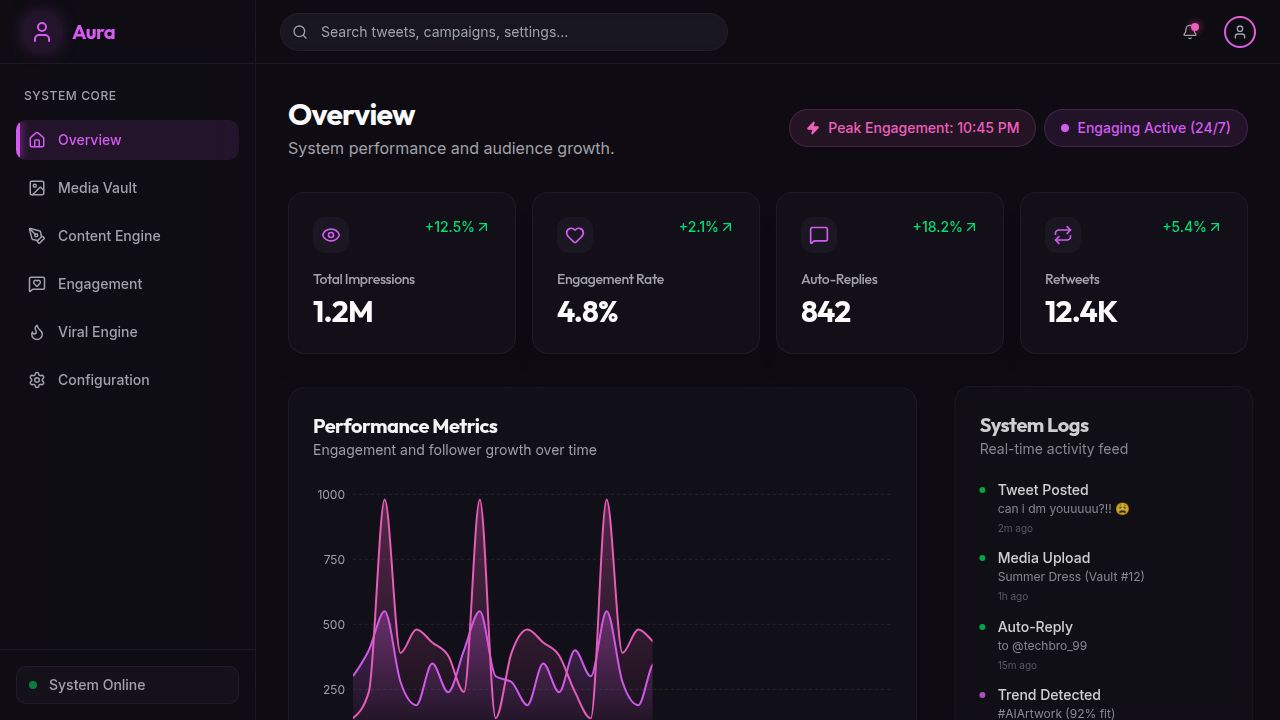
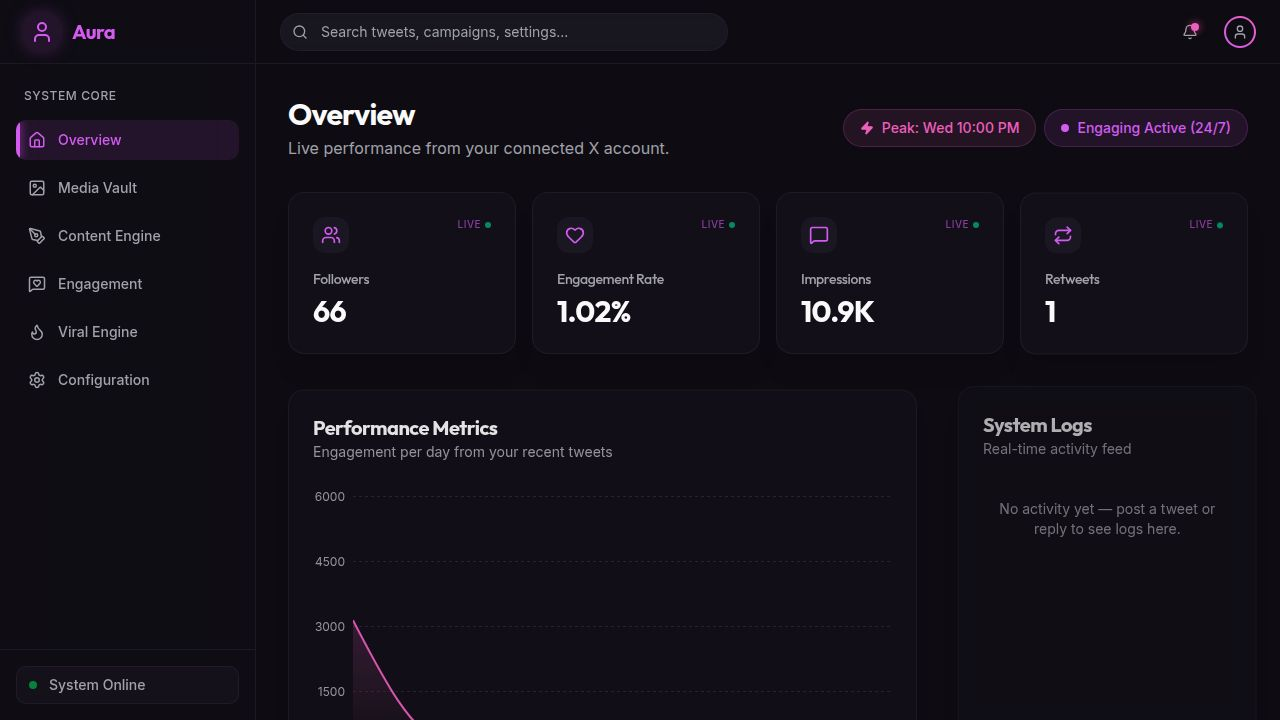
Improve follower interaction tracking by using free Twitter API tiers
Refactors the engagement poller to use available free-tier Twitter API endpoints for tracking follower counts, likes, and retweets. Extends the interaction data retention period from 48 hours to 7 days and updates the UI text accordingly. Includes improved error logging and seeds initial data for immediate display.

Replit-Commit-Author: Agent
Replit-Commit-Session-Id: 51af5744-ac7a-43ad-95ff-ba4354764f73
Replit-Commit-Checkpoint-Type: full_checkpoint
Replit-Commit-Event-Id: 0be9b2e4-4edf-44cf-bb0c-d6a19c3350ba
Replit-Commit-Screenshot-Url: https://storage.googleapis.com/screenshot-production-us-central1/250770c3-5e93-465e-921a-23eb51e88370/51af5744-ac7a-43ad-95ff-ba4354764f73/wnLmkBI
Replit-Helium-Checkpoint-Created: true

diff --git a/server/engagementPoller.ts b/server/engagementPoller.ts
@@ -89,12 +89,12 @@ async function runPoll() {
   }
 
   try {
-    const me = await client.v2.me();
+    const me = await client.v2.me({ "user.fields": ["public_metrics"] });
     const userId = me.data.id;
+    const currentFollowers = me.data.public_metrics?.followers_count ?? 0;
 
     const sevenDaysAgo = new Date(Date.now() - 7 * 24 * 60 * 60 * 1000);
 
-    // Get last checked timestamps from settings
     const [commentCheckedSetting, followerCheckedSetting] = await Promise.all([
       storage.getSetting("engagement_comments_last_checked"),
       storage.getSetting("engagement_followers_last_checked"),
@@ -108,14 +108,13 @@ async function runPoll() {
       ? new Date(followerCheckedSetting.value)
       : new Date(Date.now() - 48 * 60 * 60 * 1000);
 
-    // Use the more recent of stored time or 7 days ago for comments
     const commentsStartTime = commentsLastChecked > sevenDaysAgo
       ? commentsLastChecked
       : sevenDaysAgo;
 
     await Promise.allSettled([
       fetchCommentThreads(client, userId, commentsStartTime),
-      fetchFollowerActivity(client, userId, followersLastChecked),
+      fetchFollowerActivityDelta(client, userId, currentFollowers),
       snapshotMetrics(client, userId),
     ]);
 
@@ -215,95 +214,123 @@ async function fetchCommentThreads(client: any, userId: string, startTime: Date)
   }
 }
 
-async function fetchFollowerActivity(client: any, userId: string, since: Date) {
-  // Fetch new followers (first page — rate limit: 15/15min)
+async function fetchFollowerActivityDelta(client: any, userId: string, currentFollowers: number) {
+  // --- Follower delta: detect new followers by comparing count ---
   try {
-    const followersResult = await client.v2.followers(userId, {
-      max_results: 100,
-      "user.fields": ["username", "name"],
-    });
+    const prevSetting = await storage.getSetting("prev_follower_count");
+    const prevCount = prevSetting ? parseInt(prevSetting.value, 10) : currentFollowers;
 
-    const followers: any[] = followersResult.data?.data ?? [];
-
-    for (const follower of followers) {
-      const eventKey = `follow:${follower.username}`;
+    if (currentFollowers > prevCount) {
+      const gained = currentFollowers - prevCount;
+      const eventKey = `follow:delta:${currentFollowers}`;
       await storage.upsertLiveFollowerInteraction({
         type: "follow",
-        username: `@${follower.username}`,
+        username: `+${gained} new follower${gained > 1 ? "s" : ""}`,
         tweetId: null,
         xEventKey: eventKey,
         seen: false,
         createdAt: new Date(),
       });
+      console.log(`[EngagementPoller] Detected ${gained} new follower(s) (${prevCount} → ${currentFollowers})`);
     }
+
+    await storage.upsertSetting("prev_follower_count", String(currentFollowers));
   } catch (err: any) {
-    // Rate limit 429 or permission error — silently skip
-    if (err.code !== 429) {
-      console.error("[EngagementPoller] fetchFollowers error:", err.message);
-    }
+    console.error("[EngagementPoller] follower delta error:", err.message);
   }
 
-  // Fetch recent retweets and likes of user's tweets
+  // --- Like / Retweet delta: compare tweet public_metrics with stored snapshot ---
   try {
     const tweetsResult = await client.v2.userTimeline(userId, {
-      max_results: 5,
-      "tweet.fields": ["public_metrics", "created_at"],
-      exclude: ["replies", "retweets"],
+      max_results: 10,
+      "tweet.fields": ["public_metrics", "created_at", "text"],
+      exclude: ["retweets"],
     });
 
     const userTweets: any[] = tweetsResult.data?.data ?? [];
+    if (userTweets.length === 0) return;
+
+    const snapshotSetting = await storage.getSetting("tweet_metrics_snapshot");
+    const prevSnapshot: Record<string, { likes: number; retweets: number }> = snapshotSetting
+      ? JSON.parse(snapshotSetting.value)
+      : {};
+
+    const newSnapshot: Record<string, { likes: number; retweets: number }> = {};
+    const isFirstRun = Object.keys(prevSnapshot).length === 0;
 
     for (const tweet of userTweets) {
-      if (tweet.created_at && new Date(tweet.created_at) < since) continue;
+      const pm = tweet.public_metrics ?? {};
+      const likes = pm.like_count ?? 0;
+      const retweets = pm.retweet_count ?? 0;
+      const tweetText = (tweet.text ?? "").slice(0, 40);
 
-      try {
-        const rtResult = await client.v2.tweetRetweetedBy(tweet.id, {
-          max_results: 20,
-          "user.fields": ["username"],
-        });
+      newSnapshot[tweet.id] = { likes, retweets };
 
-        const retweeters: any[] = rtResult.data?.data ?? [];
-        for (const user of retweeters) {
-          const eventKey = `retweet:${user.username}:${tweet.id}`;
-          await storage.upsertLiveFollowerInteraction({
-            type: "retweet",
-            username: `@${user.username}`,
-            tweetId: tweet.id,
-            xEventKey: eventKey,
-            seen: false,
-            createdAt: new Date(),
-          });
-        }
-      } catch {
-        // Skip if this specific tweet's RT fetch fails
-      }
-
-      try {
-        const likeResult = await client.v2.tweetLikedBy(tweet.id, {
-          max_results: 20,
-          "user.fields": ["username"],
-        });
-
-        const likers: any[] = likeResult.data?.data ?? [];
-        for (const user of likers) {
-          const eventKey = `like:${user.username}:${tweet.id}`;
+      if (isFirstRun) {
+        if (likes > 0) {
+          const eventKey = `like:init:${tweet.id}`;
           await storage.upsertLiveFollowerInteraction({
             type: "like",
-            username: `@${user.username}`,
+            username: `${likes} like${likes > 1 ? "s" : ""} on "${tweetText}…"`,
             tweetId: tweet.id,
             xEventKey: eventKey,
             seen: false,
-            createdAt: new Date(),
+            createdAt: tweet.created_at ? new Date(tweet.created_at) : new Date(),
           });
         }
-      } catch {
-        // Skip if this specific tweet's likes fetch fails
+        if (retweets > 0) {
+          const eventKey = `retweet:init:${tweet.id}`;
+          await storage.upsertLiveFollowerInteraction({
+            type: "retweet",
+            username: `${retweets} retweet${retweets > 1 ? "s" : ""} on "${tweetText}…"`,
+            tweetId: tweet.id,
+            xEventKey: eventKey,
+            seen: false,
+            createdAt: tweet.created_at ? new Date(tweet.created_at) : new Date(),
+          });
+        }
+        continue;
+      }
+
+      const prev = prevSnapshot[tweet.id];
+      if (!prev) continue;
+
+      const newLikes = likes - prev.likes;
+      const newRetweets = retweets - prev.retweets;
+
+      if (newLikes > 0) {
+        const eventKey = `like:delta:${tweet.id}:${likes}`;
+        await storage.upsertLiveFollowerInteraction({
+          type: "like",
+          username: `+${newLikes} new like${newLikes > 1 ? "s" : ""} on "${tweetText}…"`,
+          tweetId: tweet.id,
+          xEventKey: eventKey,
+          seen: false,
+          createdAt: new Date(),
+        });
+        console.log(`[EngagementPoller] +${newLikes} like(s) on tweet ${tweet.id}`);
+      }
+
+      if (newRetweets > 0) {
+        const eventKey = `retweet:delta:${tweet.id}:${retweets}`;
+        await storage.upsertLiveFollowerInteraction({
+          type: "retweet",
+          username: `+${newRetweets} new retweet${newRetweets > 1 ? "s" : ""} on "${tweetText}…"`,
+          tweetId: tweet.id,
+          xEventKey: eventKey,
+          seen: false,
+          createdAt: new Date(),
+        });
+        console.log(`[EngagementPoller] +${newRetweets} retweet(s) on tweet ${tweet.id}`);
       }
     }
-  } catch (err: any) {
-    if (err.code !== 429) {
-      console.error("[EngagementPoller] fetchRetweets/Likes error:", err.message);
+
+    await storage.upsertSetting("tweet_metrics_snapshot", JSON.stringify(newSnapshot));
+    if (isFirstRun) {
+      console.log(`[EngagementPoller] Initial tweet metrics snapshot stored (${userTweets.length} tweets)`);
     }
+  } catch (err: any) {
+    console.error("[EngagementPoller] tweet metrics delta error:", err.message);
   }
 }
 

diff --git a/client/src/pages/EngagementEngine.tsx b/client/src/pages/EngagementEngine.tsx
@@ -556,7 +556,7 @@ export default function EngagementEngine() {
               ) : interactions.length === 0 ? (
                 <p className="text-xs text-muted-foreground/50 py-2">
                   {hasCredentials
-                    ? "No recent interactions in the last 48 hours."
+                    ? "No recent interactions in the last 7 days."
                     : "Connect X credentials to see live interactions."}
                 </p>
               ) : (

diff --git a/server/routes.ts b/server/routes.ts
@@ -244,7 +244,7 @@ export async function registerRoutes(
   // Live follower interactions (from DB, last 48h)
   app.get("/api/engagement/live-interactions", async (_req, res) => {
     try {
-      const interactions = await storage.getLiveFollowerInteractions(48);
+      const interactions = await storage.getLiveFollowerInteractions(168);
       res.json({ interactions });
     } catch (err: any) {
       console.error("[engagement/live-interactions]", err.message);
